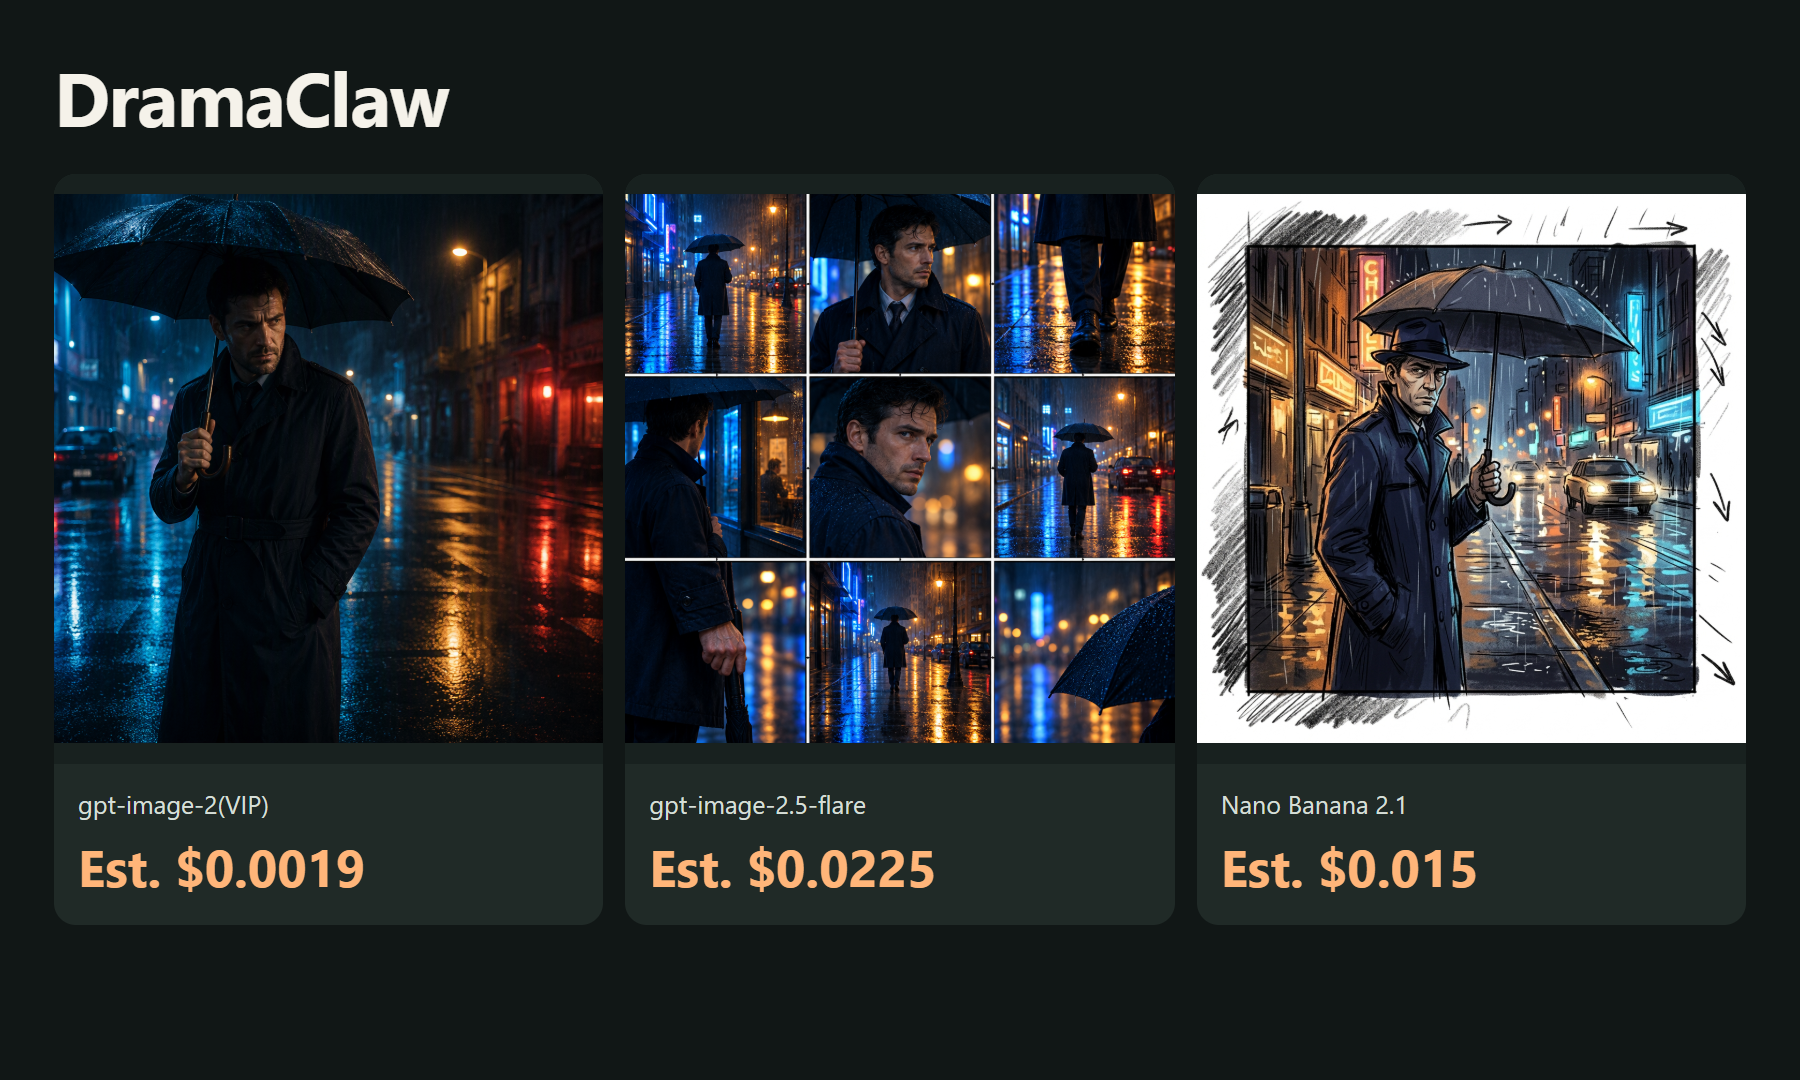
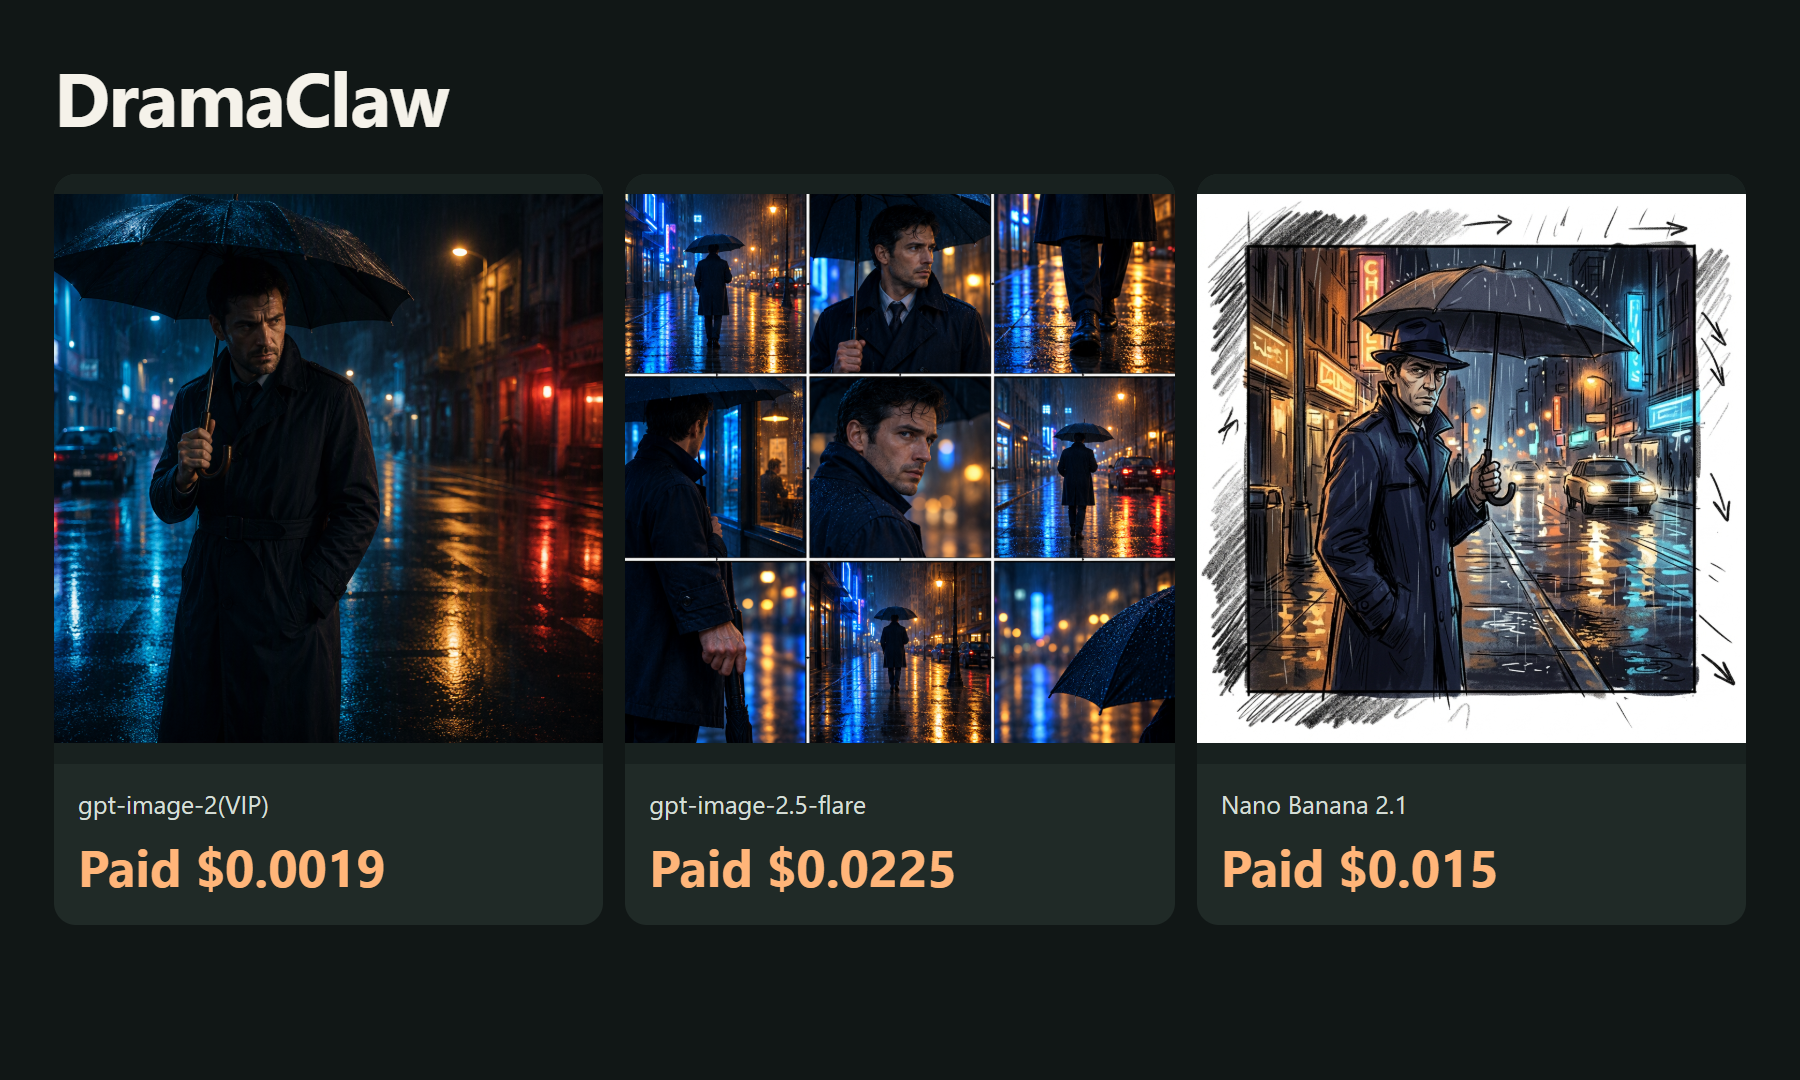
Publish original bilingual ToAPIs media examples, model pricing and real outputs

Changed region(s): [[0.0311, 0.7639, 0.2178, 0.825], [0.6844, 0.7639, 0.84, 0.825], [0.3733, 0.7639, 0.5289, 0.825]]

diff --git a/screenshots/cn/01-image-cases.html b/screenshots/cn/01-image-cases.html
@@ -1,1 +1,1 @@
-<!doctype html><html lang="zh-CN"><meta charset="utf-8"><title>DramaClaw</title><style>*{box-sizing:border-box}html,body{margin:0;width:1800px;height:1080px;overflow:hidden}body{background:#111716;color:#f5f2ea;font-family:"Segoe UI","Microsoft YaHei",sans-serif}.page{padding:54px 54px 40px}h1{font-size:76px;line-height:1.1;margin:0 0 36px;font-weight:650;letter-spacing:-1.5px}.grid{display:grid;gap:22px}.case{background:#202a27;border-radius:22px;overflow:hidden}.case img{display:block;width:100%;height:590px;object-fit:contain;background:#18211f}.caption{padding:24px 24px 28px}.model{font-size:25px;line-height:1.3;color:#d5dfd7;white-space:nowrap}.price{font-size:51px;line-height:1.2;color:#ffb579;font-weight:650;margin-top:16px}.video .case img{height:610px}.video .model{font-size:30px}.video .price{font-size:50px}</style><main class="page "><h1>DramaClaw</h1><div class="grid" style="grid-template-columns:repeat(3,1fr)"><section class="case"><img src="../../examples/gpt-image-2-vip.png"><div class="caption"><div class="model">gpt-image-2(VIP)</div><div class="price">预计 $0.0019</div></div></section><section class="case"><img src="../../examples/gpt-image-2-5-flare.png"><div class="caption"><div class="model">gpt-image-2.5-flare</div><div class="price">预计 $0.0225</div></div></section><section class="case"><img src="../../examples/gemini-nano-banana-2-1.png"><div class="caption"><div class="model">Nano Banana 2.1</div><div class="price">预计 $0.015</div></div></section></div></main></html>
+<!doctype html><html lang="zh-CN"><meta charset="utf-8"><title>DramaClaw</title><style>*{box-sizing:border-box}html,body{margin:0;width:1800px;height:1080px;overflow:hidden}body{background:#111716;color:#f5f2ea;font-family:"Segoe UI","Microsoft YaHei",sans-serif}.page{padding:54px 54px 40px}h1{font-size:76px;line-height:1.1;margin:0 0 36px;font-weight:650;letter-spacing:-1.5px}.grid{display:grid;gap:22px}.case{background:#202a27;border-radius:22px;overflow:hidden}.case img{display:block;width:100%;height:590px;object-fit:contain;background:#18211f}.caption{padding:24px 24px 28px}.model{font-size:25px;line-height:1.3;color:#d5dfd7;white-space:nowrap}.price{font-size:51px;line-height:1.2;color:#ffb579;font-weight:650;margin-top:16px}.video .case img{height:610px}.video .model{font-size:30px}.video .price{font-size:50px}</style><main class="page "><h1>DramaClaw</h1><div class="grid" style="grid-template-columns:repeat(3,1fr)"><section class="case"><img src="../../examples/gpt-image-2-vip.png"><div class="caption"><div class="model">gpt-image-2(VIP)</div><div class="price">实扣 $0.0019</div></div></section><section class="case"><img src="../../examples/gpt-image-2-5-flare.png"><div class="caption"><div class="model">gpt-image-2.5-flare</div><div class="price">实扣 $0.0225</div></div></section><section class="case"><img src="../../examples/gemini-nano-banana-2-1.png"><div class="caption"><div class="model">Nano Banana 2.1</div><div class="price">实扣 $0.015</div></div></section></div></main></html>

diff --git a/screenshots/en/01-image-cases.html b/screenshots/en/01-image-cases.html
@@ -1,1 +1,1 @@
-<!doctype html><html lang="en"><meta charset="utf-8"><title>DramaClaw</title><style>*{box-sizing:border-box}html,body{margin:0;width:1800px;height:1080px;overflow:hidden}body{background:#111716;color:#f5f2ea;font-family:"Segoe UI","Microsoft YaHei",sans-serif}.page{padding:54px 54px 40px}h1{font-size:76px;line-height:1.1;margin:0 0 36px;font-weight:650;letter-spacing:-1.5px}.grid{display:grid;gap:22px}.case{background:#202a27;border-radius:22px;overflow:hidden}.case img{display:block;width:100%;height:590px;object-fit:contain;background:#18211f}.caption{padding:24px 24px 28px}.model{font-size:25px;line-height:1.3;color:#d5dfd7;white-space:nowrap}.price{font-size:51px;line-height:1.2;color:#ffb579;font-weight:650;margin-top:16px}.video .case img{height:610px}.video .model{font-size:30px}.video .price{font-size:50px}</style><main class="page "><h1>DramaClaw</h1><div class="grid" style="grid-template-columns:repeat(3,1fr)"><section class="case"><img src="../../examples/gpt-image-2-vip.png"><div class="caption"><div class="model">gpt-image-2(VIP)</div><div class="price">Est. $0.0019</div></div></section><section class="case"><img src="../../examples/gpt-image-2-5-flare.png"><div class="caption"><div class="model">gpt-image-2.5-flare</div><div class="price">Est. $0.0225</div></div></section><section class="case"><img src="../../examples/gemini-nano-banana-2-1.png"><div class="caption"><div class="model">Nano Banana 2.1</div><div class="price">Est. $0.015</div></div></section></div></main></html>
+<!doctype html><html lang="en"><meta charset="utf-8"><title>DramaClaw</title><style>*{box-sizing:border-box}html,body{margin:0;width:1800px;height:1080px;overflow:hidden}body{background:#111716;color:#f5f2ea;font-family:"Segoe UI","Microsoft YaHei",sans-serif}.page{padding:54px 54px 40px}h1{font-size:76px;line-height:1.1;margin:0 0 36px;font-weight:650;letter-spacing:-1.5px}.grid{display:grid;gap:22px}.case{background:#202a27;border-radius:22px;overflow:hidden}.case img{display:block;width:100%;height:590px;object-fit:contain;background:#18211f}.caption{padding:24px 24px 28px}.model{font-size:25px;line-height:1.3;color:#d5dfd7;white-space:nowrap}.price{font-size:51px;line-height:1.2;color:#ffb579;font-weight:650;margin-top:16px}.video .case img{height:610px}.video .model{font-size:30px}.video .price{font-size:50px}</style><main class="page "><h1>DramaClaw</h1><div class="grid" style="grid-template-columns:repeat(3,1fr)"><section class="case"><img src="../../examples/gpt-image-2-vip.png"><div class="caption"><div class="model">gpt-image-2(VIP)</div><div class="price">Paid $0.0019</div></div></section><section class="case"><img src="../../examples/gpt-image-2-5-flare.png"><div class="caption"><div class="model">gpt-image-2.5-flare</div><div class="price">Paid $0.0225</div></div></section><section class="case"><img src="../../examples/gemini-nano-banana-2-1.png"><div class="caption"><div class="model">Nano Banana 2.1</div><div class="price">Paid $0.015</div></div></section></div></main></html>

diff --git a/screenshots/cn/02-video-case.html b/screenshots/cn/02-video-case.html
@@ -1,1 +1,1 @@
-<!doctype html><html lang="zh-CN"><meta charset="utf-8"><title>DramaClaw</title><style>*{box-sizing:border-box}html,body{margin:0;width:1800px;height:1080px;overflow:hidden}body{background:#111716;color:#f5f2ea;font-family:"Segoe UI","Microsoft YaHei",sans-serif}.page{padding:54px 54px 40px}h1{font-size:76px;line-height:1.1;margin:0 0 36px;font-weight:650;letter-spacing:-1.5px}.grid{display:grid;gap:22px}.case{background:#202a27;border-radius:22px;overflow:hidden}.case img{display:block;width:100%;height:590px;object-fit:contain;background:#18211f}.caption{padding:24px 24px 28px}.model{font-size:25px;line-height:1.3;color:#d5dfd7;white-space:nowrap}.price{font-size:51px;line-height:1.2;color:#ffb579;font-weight:650;margin-top:16px}.video .case img{height:610px}.video .model{font-size:30px}.video .price{font-size:50px}</style><main class="page video"><h1>DramaClaw</h1><div class="grid" style="grid-template-columns:repeat(2,1fr)"><section class="case"><img src="../../examples/gpt-image-2-vip.png"><div class="caption"><div class="model">gpt-image-2(VIP)</div><div class="price">预计 $0.0019</div></div></section><section class="case"><img src="../../demo/video-frame.jpg"><div class="caption"><div class="model">MiniMax H3 · 5s / 768p</div><div class="price">预计 $0.40</div></div></section></div></main></html>
+<!doctype html><html lang="zh-CN"><meta charset="utf-8"><title>DramaClaw</title><style>*{box-sizing:border-box}html,body{margin:0;width:1800px;height:1080px;overflow:hidden}body{background:#111716;color:#f5f2ea;font-family:"Segoe UI","Microsoft YaHei",sans-serif}.page{padding:54px 54px 40px}h1{font-size:76px;line-height:1.1;margin:0 0 36px;font-weight:650;letter-spacing:-1.5px}.grid{display:grid;gap:22px}.case{background:#202a27;border-radius:22px;overflow:hidden}.case img{display:block;width:100%;height:590px;object-fit:contain;background:#18211f}.caption{padding:24px 24px 28px}.model{font-size:25px;line-height:1.3;color:#d5dfd7;white-space:nowrap}.price{font-size:51px;line-height:1.2;color:#ffb579;font-weight:650;margin-top:16px}.video .case img{height:610px}.video .model{font-size:30px}.video .price{font-size:50px}</style><main class="page video"><h1>DramaClaw</h1><div class="grid" style="grid-template-columns:repeat(2,1fr)"><section class="case"><img src="../../examples/gpt-image-2-vip.png"><div class="caption"><div class="model">gpt-image-2(VIP)</div><div class="price">实扣 $0.0019</div></div></section><section class="case"><img src="../../demo/video-frame.jpg"><div class="caption"><div class="model">MiniMax H3 · 5s / 768p</div><div class="price">实扣 $0.40</div></div></section></div></main></html>

diff --git a/screenshots/en/02-video-case.html b/screenshots/en/02-video-case.html
@@ -1,1 +1,1 @@
-<!doctype html><html lang="en"><meta charset="utf-8"><title>DramaClaw</title><style>*{box-sizing:border-box}html,body{margin:0;width:1800px;height:1080px;overflow:hidden}body{background:#111716;color:#f5f2ea;font-family:"Segoe UI","Microsoft YaHei",sans-serif}.page{padding:54px 54px 40px}h1{font-size:76px;line-height:1.1;margin:0 0 36px;font-weight:650;letter-spacing:-1.5px}.grid{display:grid;gap:22px}.case{background:#202a27;border-radius:22px;overflow:hidden}.case img{display:block;width:100%;height:590px;object-fit:contain;background:#18211f}.caption{padding:24px 24px 28px}.model{font-size:25px;line-height:1.3;color:#d5dfd7;white-space:nowrap}.price{font-size:51px;line-height:1.2;color:#ffb579;font-weight:650;margin-top:16px}.video .case img{height:610px}.video .model{font-size:30px}.video .price{font-size:50px}</style><main class="page video"><h1>DramaClaw</h1><div class="grid" style="grid-template-columns:repeat(2,1fr)"><section class="case"><img src="../../examples/gpt-image-2-vip.png"><div class="caption"><div class="model">gpt-image-2(VIP)</div><div class="price">Est. $0.0019</div></div></section><section class="case"><img src="../../demo/video-frame.jpg"><div class="caption"><div class="model">MiniMax H3 · 5s / 768p</div><div class="price">Est. $0.40</div></div></section></div></main></html>
+<!doctype html><html lang="en"><meta charset="utf-8"><title>DramaClaw</title><style>*{box-sizing:border-box}html,body{margin:0;width:1800px;height:1080px;overflow:hidden}body{background:#111716;color:#f5f2ea;font-family:"Segoe UI","Microsoft YaHei",sans-serif}.page{padding:54px 54px 40px}h1{font-size:76px;line-height:1.1;margin:0 0 36px;font-weight:650;letter-spacing:-1.5px}.grid{display:grid;gap:22px}.case{background:#202a27;border-radius:22px;overflow:hidden}.case img{display:block;width:100%;height:590px;object-fit:contain;background:#18211f}.caption{padding:24px 24px 28px}.model{font-size:25px;line-height:1.3;color:#d5dfd7;white-space:nowrap}.price{font-size:51px;line-height:1.2;color:#ffb579;font-weight:650;margin-top:16px}.video .case img{height:610px}.video .model{font-size:30px}.video .price{font-size:50px}</style><main class="page video"><h1>DramaClaw</h1><div class="grid" style="grid-template-columns:repeat(2,1fr)"><section class="case"><img src="../../examples/gpt-image-2-vip.png"><div class="caption"><div class="model">gpt-image-2(VIP)</div><div class="price">Paid $0.0019</div></div></section><section class="case"><img src="../../demo/video-frame.jpg"><div class="caption"><div class="model">MiniMax H3 · 5s / 768p</div><div class="price">Paid $0.40</div></div></section></div></main></html>

diff --git a/README.md b/README.md
@@ -4,7 +4,7 @@
 
 Turn scripts into images and video shots.
 
-October 16, 2026: 3 real images and 1 real video. Catalog estimate for these completed assets: **$0.4394**; settled charges pending.
+October 16, 2026: 3 real images and 1 real video. Confirmed charge for these completed assets: **$0.4394 (87.88 credits)**, reconciled by task ID against the owner-provided dashboard export.
 
 [ToAPIs · model pricing and setup](https://go2v.toapis.com/dc16ge)
 
@@ -20,12 +20,12 @@ October 16, 2026: 3 real images and 1 real video. Catalog estimate for these com
 
 | Model | Preset | Catalog estimate / output | Settled charge |
 |---|---|---:|---|
-| gpt-image-2(VIP) | low / 1K | $0.0019 | pending |
-| gpt-image-2.5-flare | high / 1K | $0.0225 | pending |
-| Nano Banana 2.1 | 1K | $0.015 | pending |
-| MiniMax H3 | 5s / 768p / first-frame | $0.40 ($0.08/s) | pending |
+| gpt-image-2(VIP) | low / 1K | $0.0019 | $0.0019 |
+| gpt-image-2.5-flare | high / 1K | $0.0225 | $0.0225 |
+| Nano Banana 2.1 | 1K | $0.015 | $0.015 |
+| MiniMax H3 | 5s / 768p / first-frame | $0.40 ($0.08/s) | $0.4 |
 
-These are catalog estimates for the specified presets, not confirmed settled charges. Different models/presets do not imply equal quality. See evidence and examples for task records and originals.
+Catalog rates and confirmed charges match for these tested presets. Charges were reconciled against the owner-provided dashboard export at USD 0.005 per credit. Different models/presets do not imply equal quality. See evidence and examples for task records and originals.
 
 ## Run it
 

diff --git a/README_zh-CN.md b/README_zh-CN.md
@@ -4,7 +4,7 @@
 
 把剧本里的镜头变成图片和视频。
 
-2026-10-16：3张真实图片、1段真实视频；本批成功素材按价表估算 **$0.4394**，实际扣费待后台核对。
+2026-10-16：3张真实图片、1段真实视频；本批成功素材实扣 **$0.4394（87.88积分）**，已按后台导出逐任务核对。
 
 [ToAPIs · 对应模型价格与接入](https://go2v.toapis.com/dc16gc)
 
@@ -20,12 +20,12 @@
 
 | Model | Preset | Catalog estimate / output | Settled charge |
 |---|---|---:|---|
-| gpt-image-2(VIP) | low / 1K | $0.0019 | 待核对 |
-| gpt-image-2.5-flare | high / 1K | $0.0225 | 待核对 |
-| Nano Banana 2.1 | 1K | $0.015 | 待核对 |
-| MiniMax H3 | 5s / 768p / first-frame | $0.40 ($0.08/s) | 待核对 |
+| gpt-image-2(VIP) | low / 1K | $0.0019 | $0.0019 |
+| gpt-image-2.5-flare | high / 1K | $0.0225 | $0.0225 |
+| Nano Banana 2.1 | 1K | $0.015 | $0.015 |
+| MiniMax H3 | 5s / 768p / first-frame | $0.40 ($0.08/s) | $0.4 |
 
-以上是本次明确配置的费率估算，不是已结算金额；不同模型/画质不表示同等质量。每项任务、请求和原始文件见evidence与examples。
+对应配置的价表与本次实扣一致；实扣来自后台导出，1积分=$0.005。不同模型/画质不表示同等质量。逐任务记录和原始文件见evidence与examples。
 
 ## 怎么运行
 
